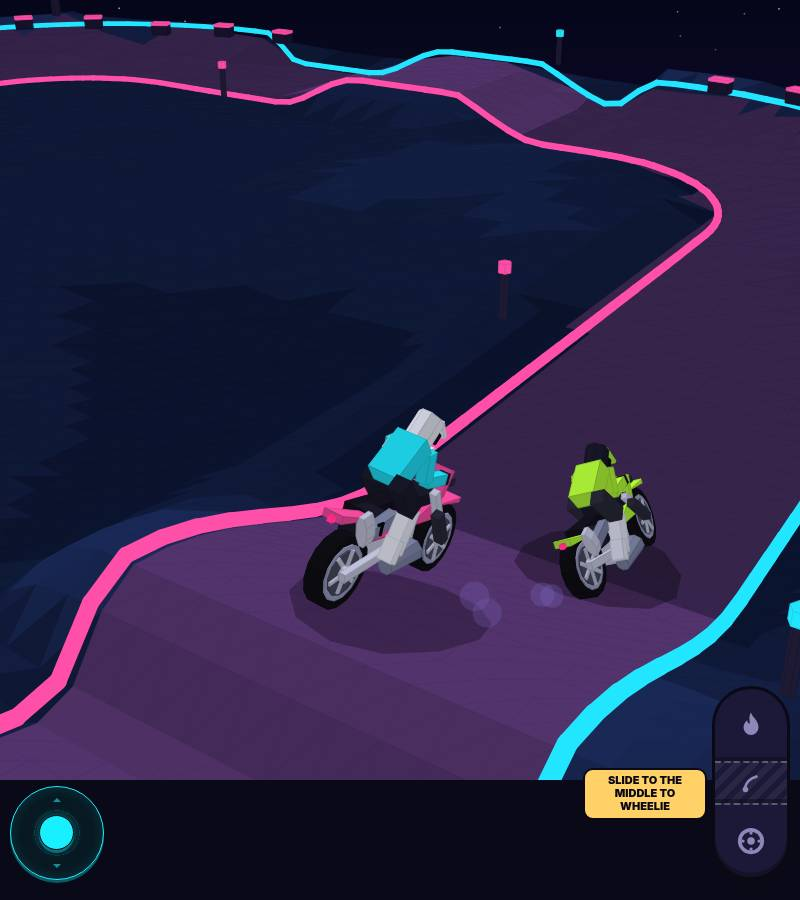
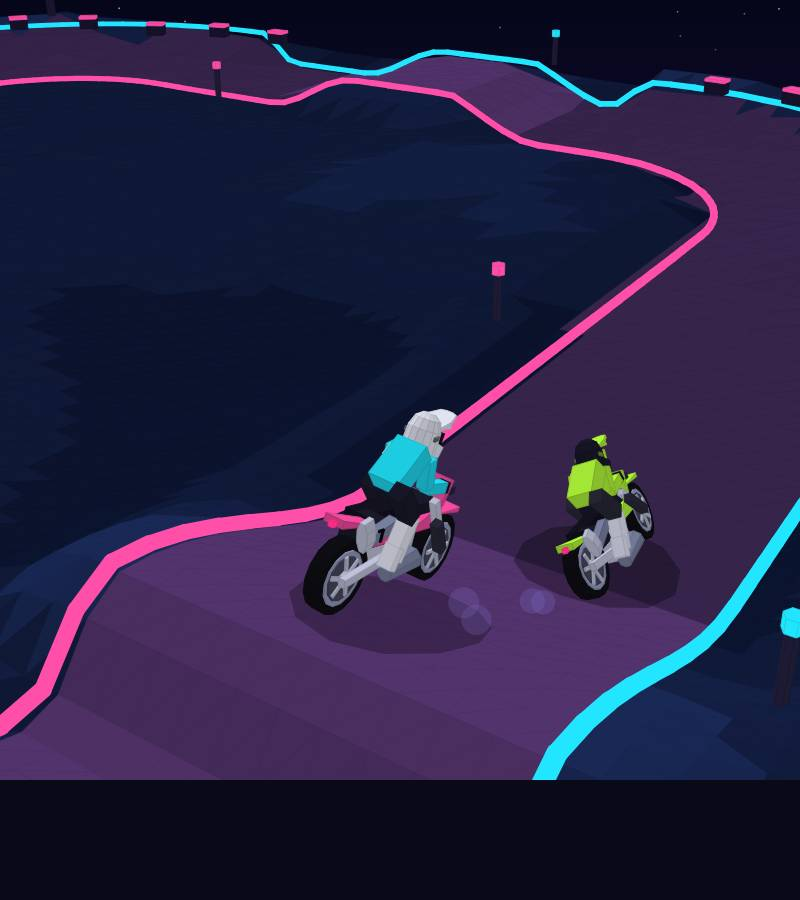
Landing hero: a light poster from the first paint; the switch swaps it at once
The hero's poster was one dark still, so in light mode the hero stayed dark
until the game started and then flipped. Now a light still of the same moment
(hero-light.jpg, hero-light-800.jpg) is a CSS background chosen by the theme,
preloaded for that theme only. The switch swaps it at once before the game
loads, and the faded-out poster leaves the layout. The phone posters drop the
baked-in touch controls. test:site covers it.

Claude-Session: https://claude.ai/code/session_01GvrW9iDZUVgckUGXjuSeoh

diff --git a/site/src/styles/site.css b/site/src/styles/site.css
@@ -39,7 +39,9 @@ em{font-style:normal;color:var(--hot)}
 /* Wide screens: the race rides right of the copy (its left edge fades under the scrim); the stage keeps
    the game's wide frame (no letterbox), its right side running off the page. */
 @media (min-width:821px){.dt-stage,.dt-poster{left:20%;right:auto;width:max(80%,calc(min(860px,100svh) * 1.8));-webkit-mask:linear-gradient(90deg,#0000,#000 18%);mask:linear-gradient(90deg,#0000,#000 18%)}}
-.dt-poster{transition:opacity .7s ease,visibility 0s .7s}.dt-poster img{display:block;width:100%;height:100%;object-fit:cover;object-position:62% 50%}
+.dt-poster{transition:opacity .7s ease,visibility 0s .7s;background:var(--poster) 62% 50%/cover no-repeat}
+html.bui[data-theme="light"] .dt-poster{background-image:var(--poster-l)}
+@media (max-width:700px){.dt-poster{background-image:var(--poster-s)}html.bui[data-theme="light"] .dt-poster{background-image:var(--poster-ls)}}
 .dt-hero[data-live] .dt-poster{opacity:0;visibility:hidden}
 .dt-scrim{position:absolute;inset:0;z-index:1;pointer-events:none;background:linear-gradient(90deg,color-mix(in srgb,var(--scrim) 90%,transparent) 0%,color-mix(in srgb,var(--scrim) 74%,transparent) 36%,color-mix(in srgb,var(--scrim) 18%,transparent) 60%,transparent 74%)}
 .dt-copy{position:relative;z-index:2;padding:56px 0 64px;pointer-events:none}

diff --git a/CHANGELOG.md b/CHANGELOG.md
@@ -1,5 +1,9 @@
 # Changelog
 
+## Unreleased
+
+- **The landing hero is light from the first paint.** The poster under the hero race was one dark still, so in light mode the hero stayed dark until the game started and then flipped. Now there is a light poster of the same moment (`shots/hero-light.jpg`, `hero-light-800.jpg` for phones), chosen by the page's theme. The poster is a CSS background, so only the theme's still is fetched, and its preload follows the theme. The theme switch swaps the poster at once, before the game loads or after it (the game already took the theme on mount). Once the poster fades out it leaves the layout, so a switch never fetches a still nobody sees. The phone posters no longer show the touch pad and the throttle rocker, which the live hero hides anyway (`node scripts/shots.mjs [dark|light]` makes both themes; `og.jpg` untouched). The phone first load is 4.3 KB lighter in dark and 7.2 KB lighter in light. `test:site` covers it: light first with only the light still fetched, the switch both ways before the game, the race in light, no still fetched after.
+
 ## 0.9.0 — 2026-11-19
 
 - **The helmet looks like the game art's, and it is your profile picture.** The rider's helmet is rebuilt to the box art's shape and drawn 18 % bigger: a round shell (a drum, a crown and a cap, 14 sides), the peak coming off the crown's front and sweeping up (tapering to the tip, thick at the root, a wedge under it), a chin bar jutting forward and down, and a face that reads from the front and the side: the goggle's frame, a lens in the visor tint standing proud of the shell with a small glint (so a smoke visor still shows on a dark helmet), and a strap going back from the goggle on each side in a softer tone (the frame is the stripe colour, or a dark or light band when the stripe is the shell's own colour). Draw order: the face hangs on a group that draws over the shell facing you and under it facing away, each strap on its side's group (as the far leg and arm are), the lens and the glint have only their front face; the layer table is in `src/bike/rig.ts`. New `tests/helmet.browser.mjs`: six shapes × five poses (standing, seated, wheelie, handstand, crashed) × 24 yaws × three pitches; facing the eye the lens shows (≥ 129 px measured, 390 cases), facing away no lens pixel and no face part through the shell (978 cases; the first draft of this helmet failed it, its lens's sides showed from behind). The six shapes stay distinct (MX PEAK; DUCKBILL, a longer flatter bill; STREET DOME, a big visor in its rim, no peak; OPEN FACE, goggles, a short snap peak, an open jaw; NEON FIN, a glowing shark fin; SPIKE ROW). The rider now looks ahead as he leans (the head lifts against the torso's lean, up to 0.55 rad), so head-on the goggle is in view, not the crown: head-on in the garage it covers 9–27 % of the helmet's box (1–4 % before, edges only; `tests/garage-ux.browser.mjs`). New `src/garage/portrait.ts`: `helmetSVG(colours, shape)`, the helmet as a flat SVG in the art's style (side profile, the art's ink outline, its peak and chin bar), coloured and shaped live from the kit; it sits by your name in the top bar, big beside the turntable on RIDER KIT and OUTFITS (following every peek and try-on), and on the HELMET row's keys. Dressing the rider, the turntable closes in on them. Size +1,919 B gzip (holeshot.mjs 221,638 → 223,557; holeshot.js 221,871 → 223,800); budget 223,500 → 225,000.
